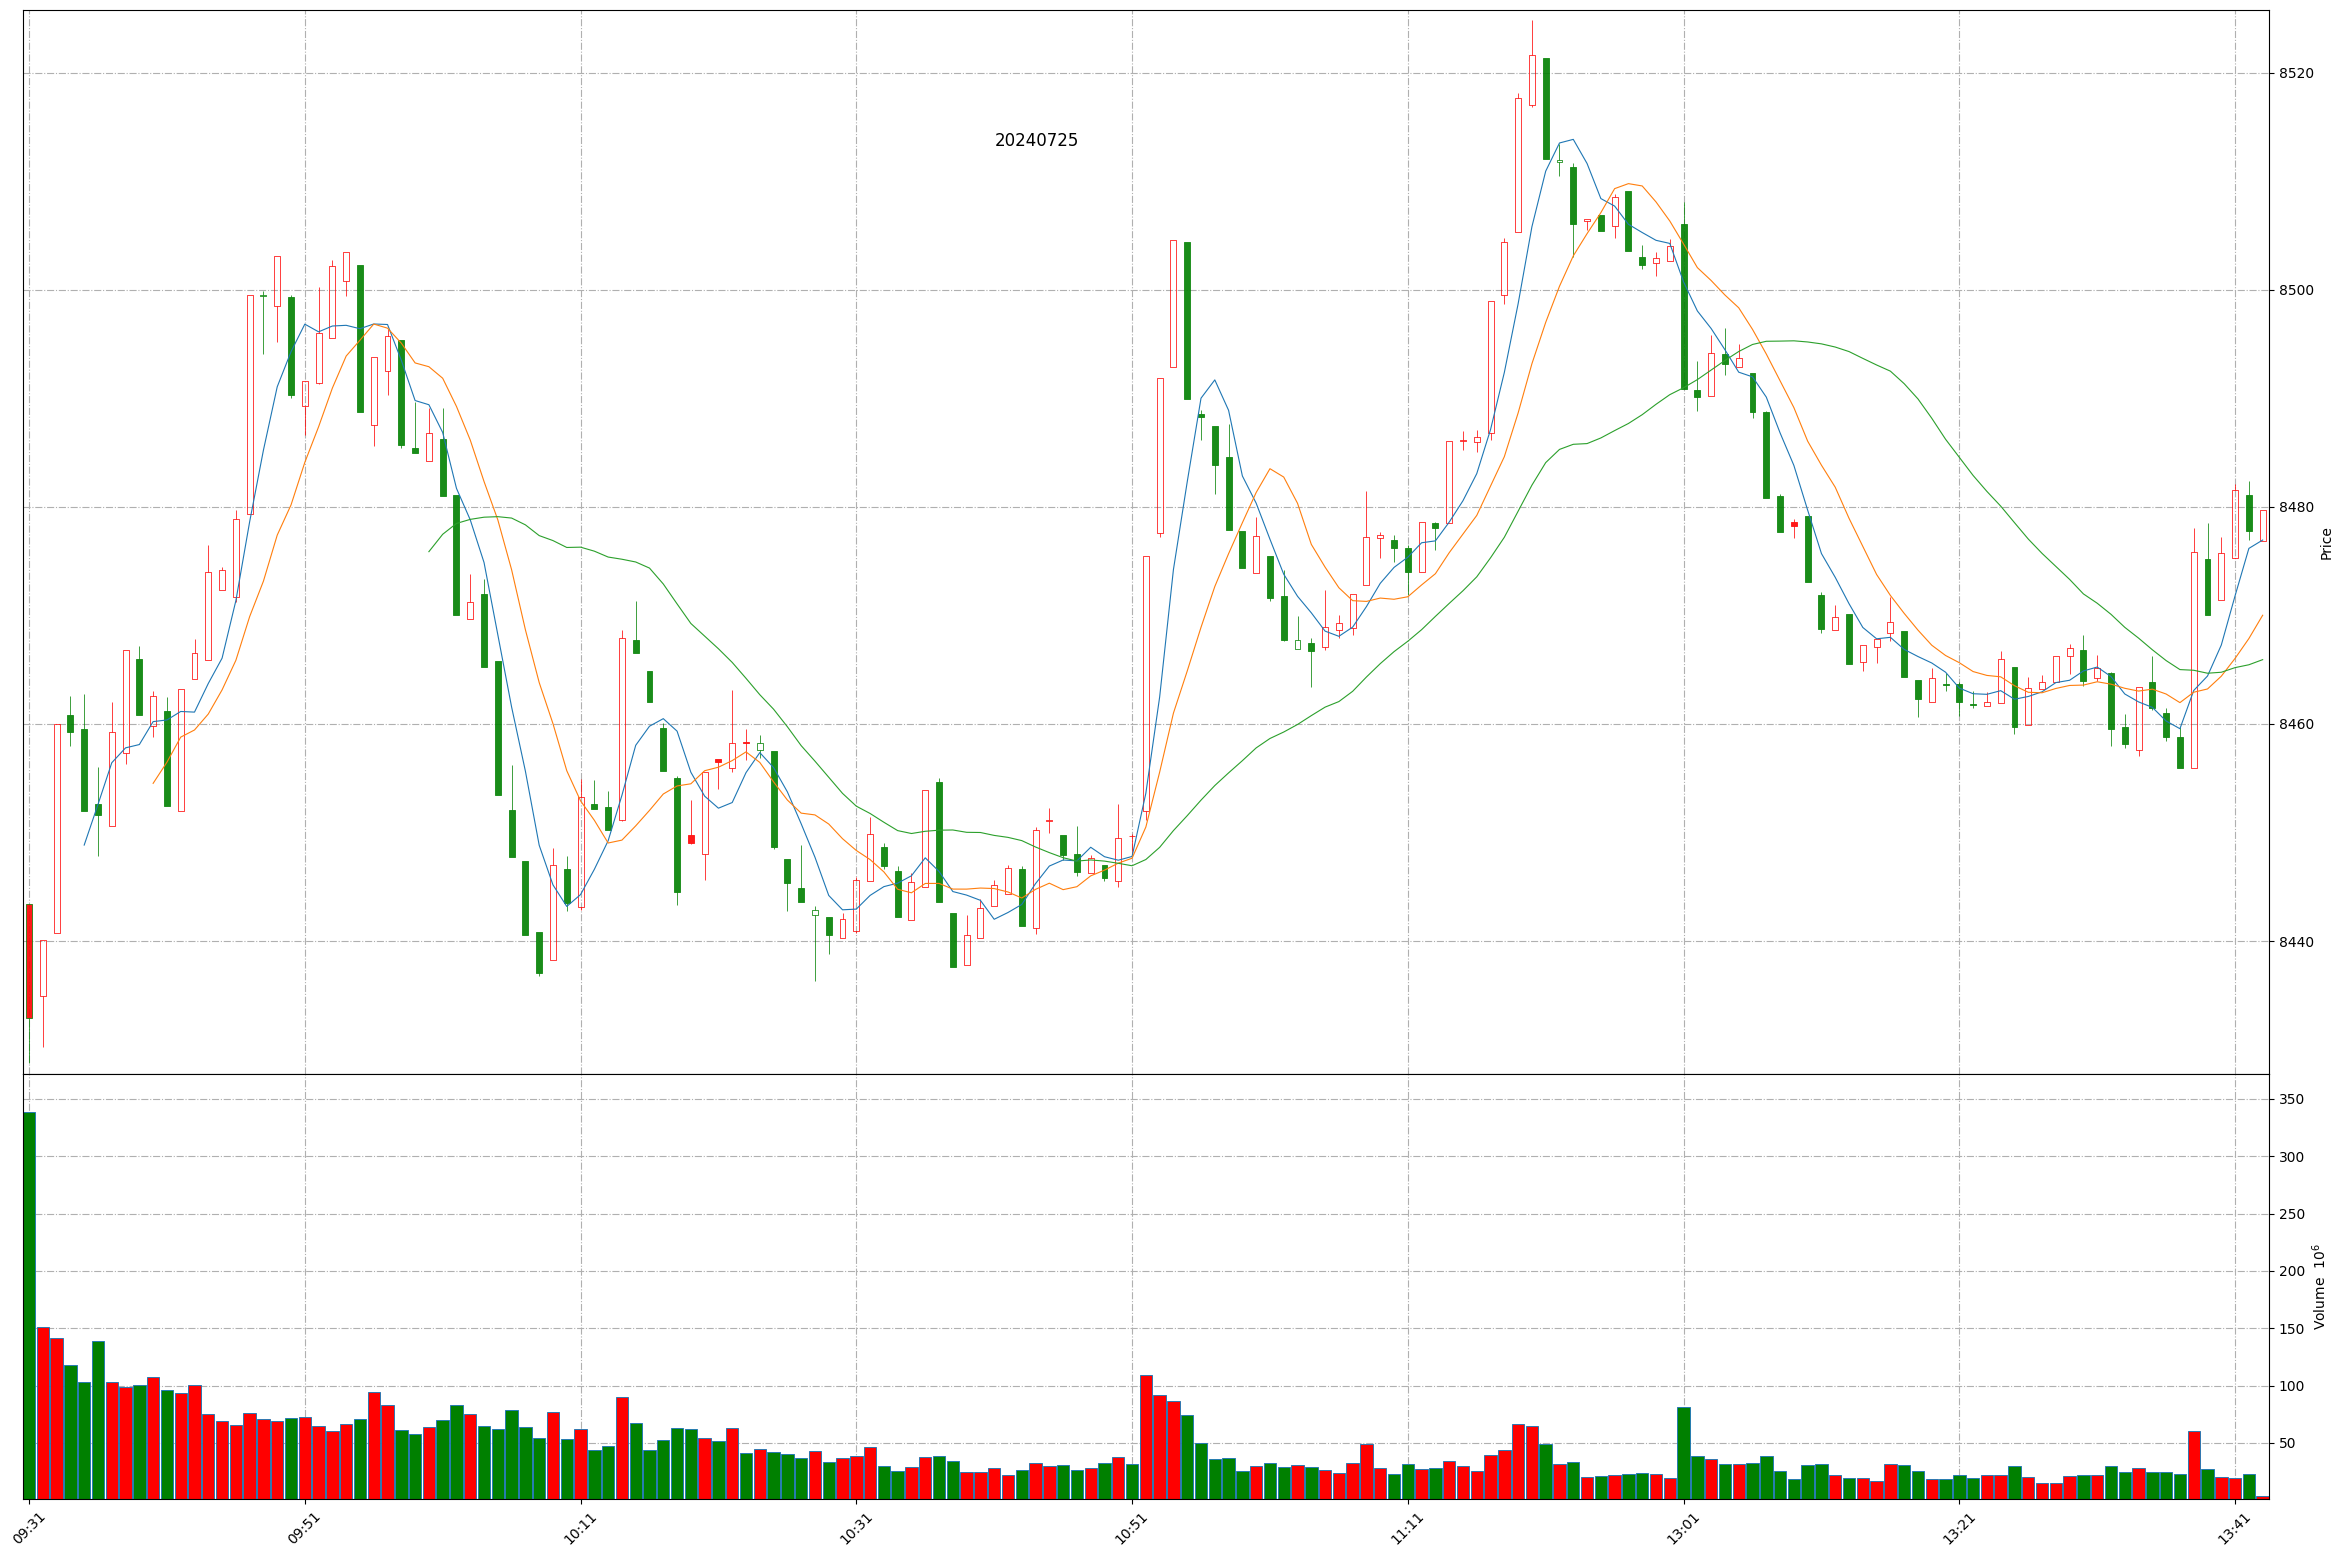
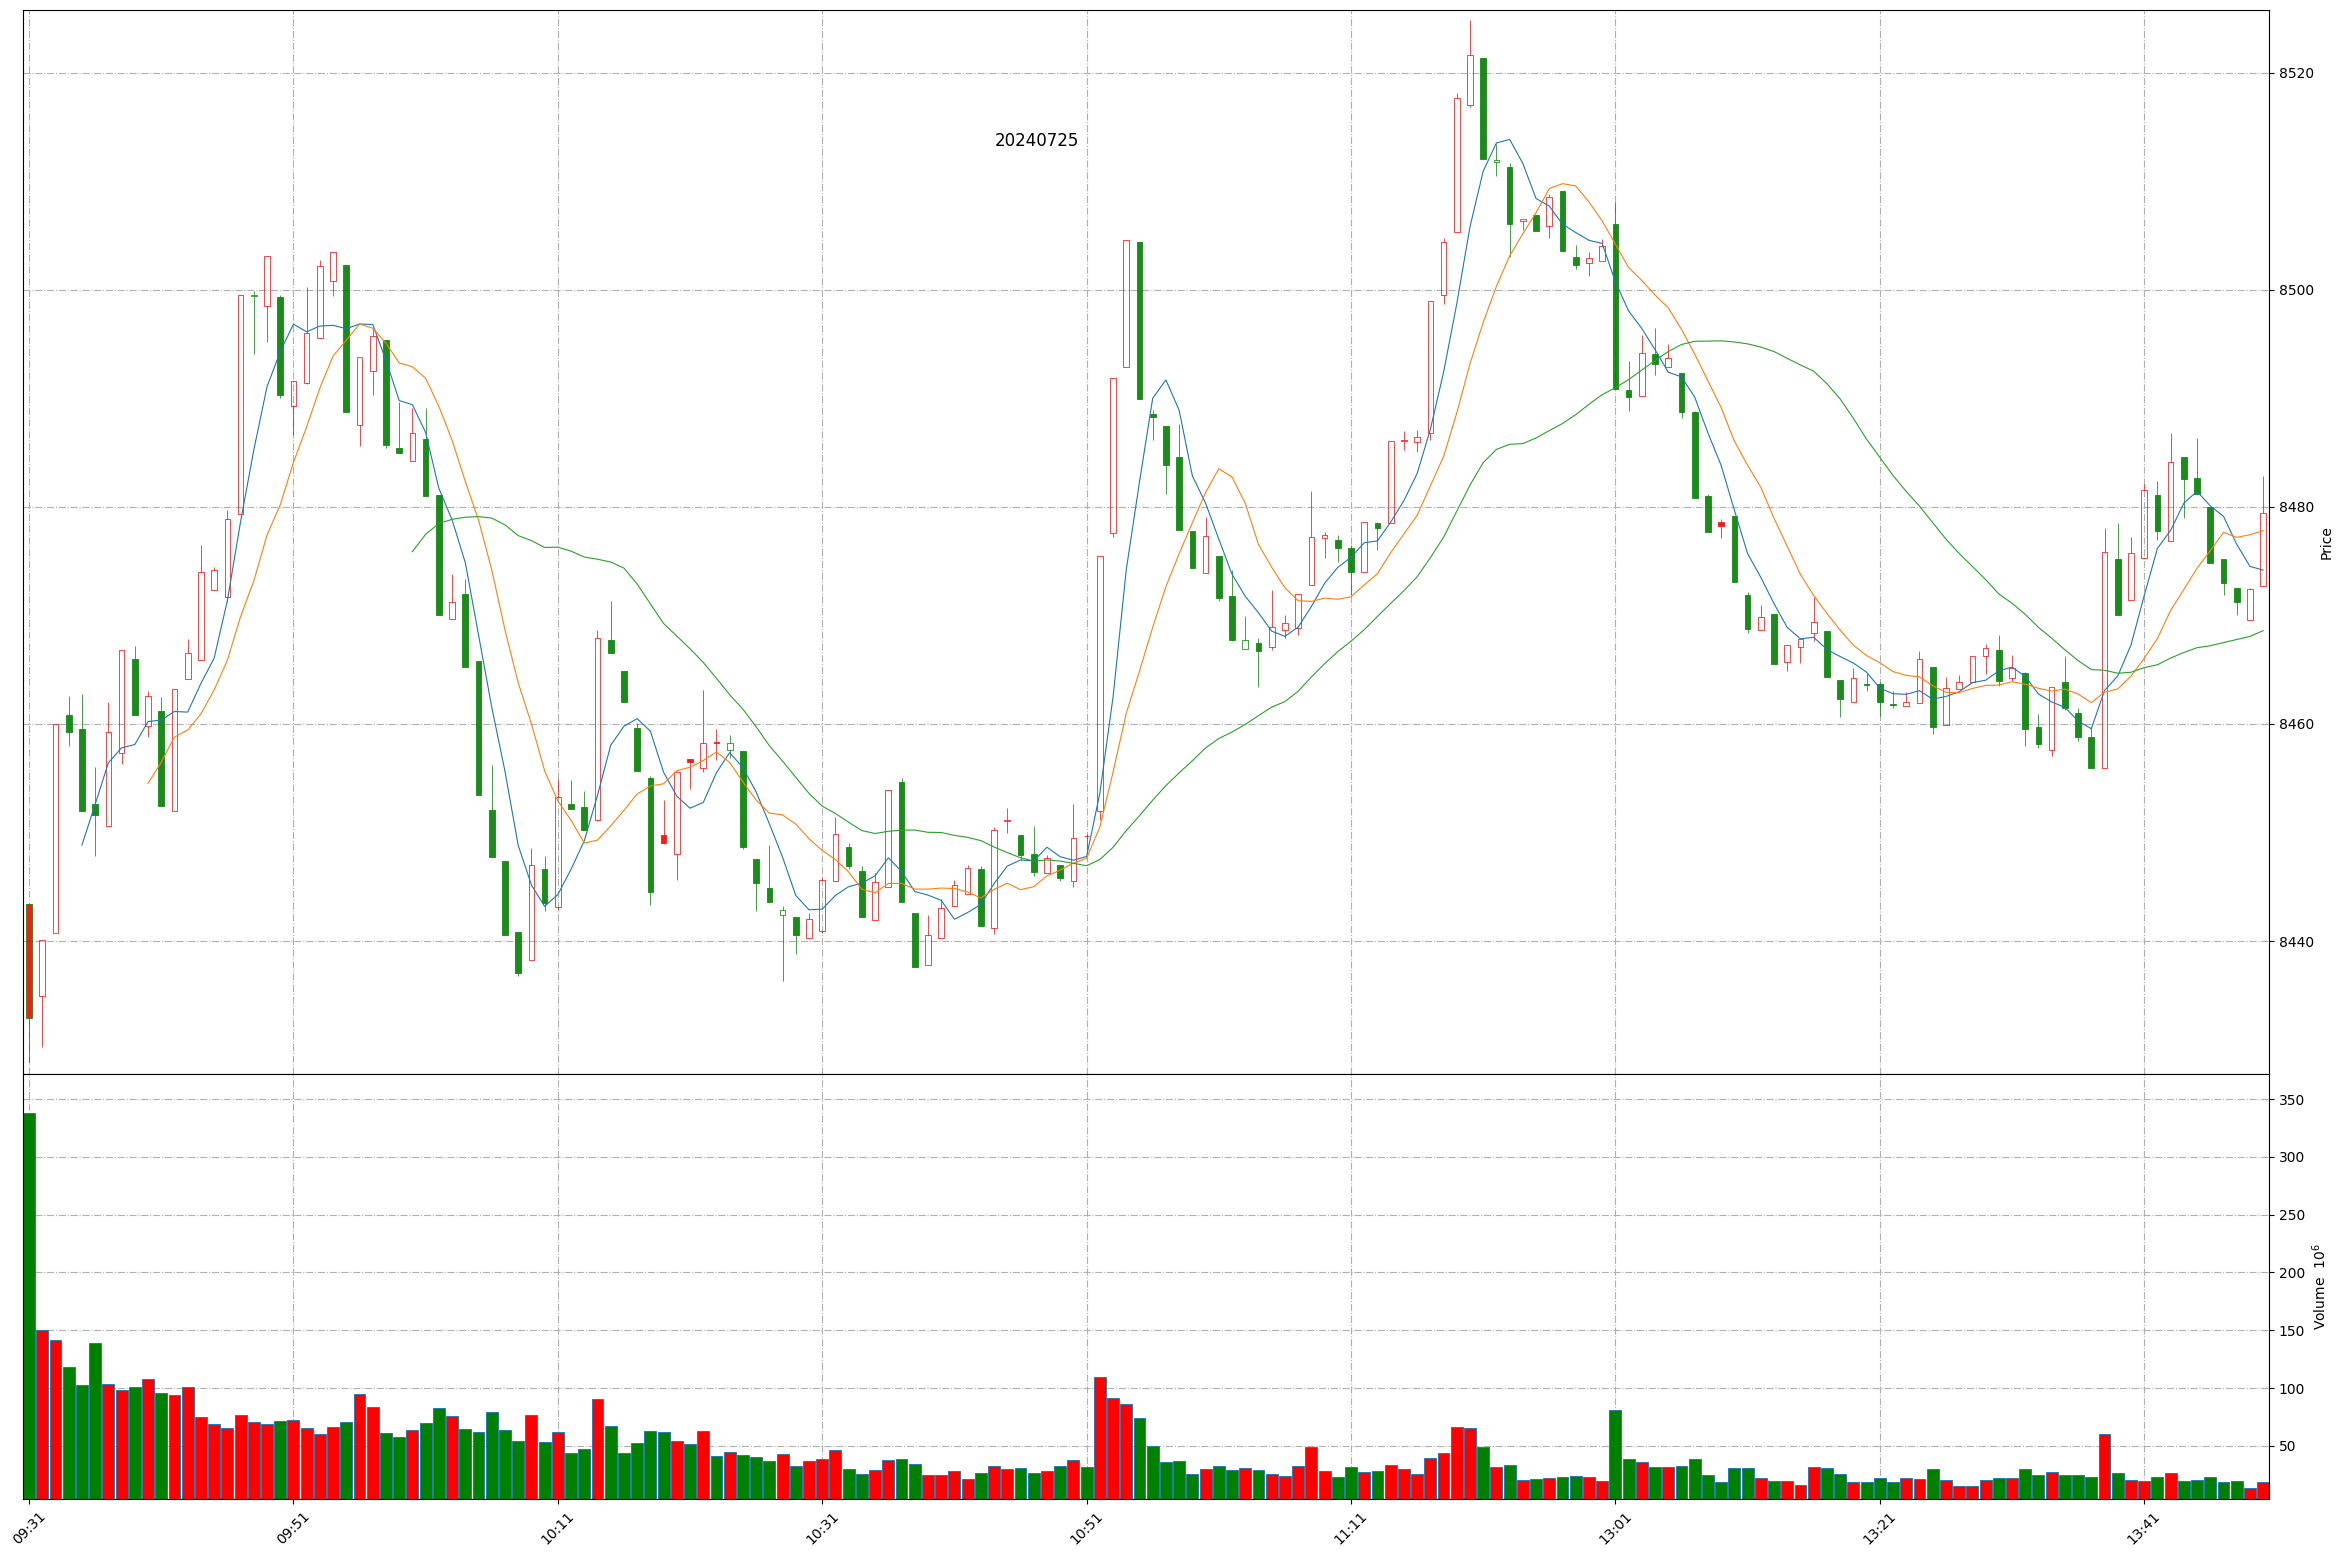
Github action update at 2024-07-25 13:49:41.

diff --git a/README.md b/README.md
@@ -1,11 +1,11 @@
 
 # Daily-A-share-market-quotes 每日 A 股指数（5min 更新）- 20240725
 
-### 上证指数 20240725 13:42
+### 上证指数 20240725 13:49
 ![](./fig/2024/7/20240725-sh000001.png)
 
-### 深证成指 20240725 13:42
+### 深证成指 20240725 13:49
 ![](./fig/2024/7/20240725-sz399001.png)
 
-### 北证50 20240725 13:42
+### 北证50 20240725 13:49
 ![](./fig/2024/7/20240725-bj899050.png)
